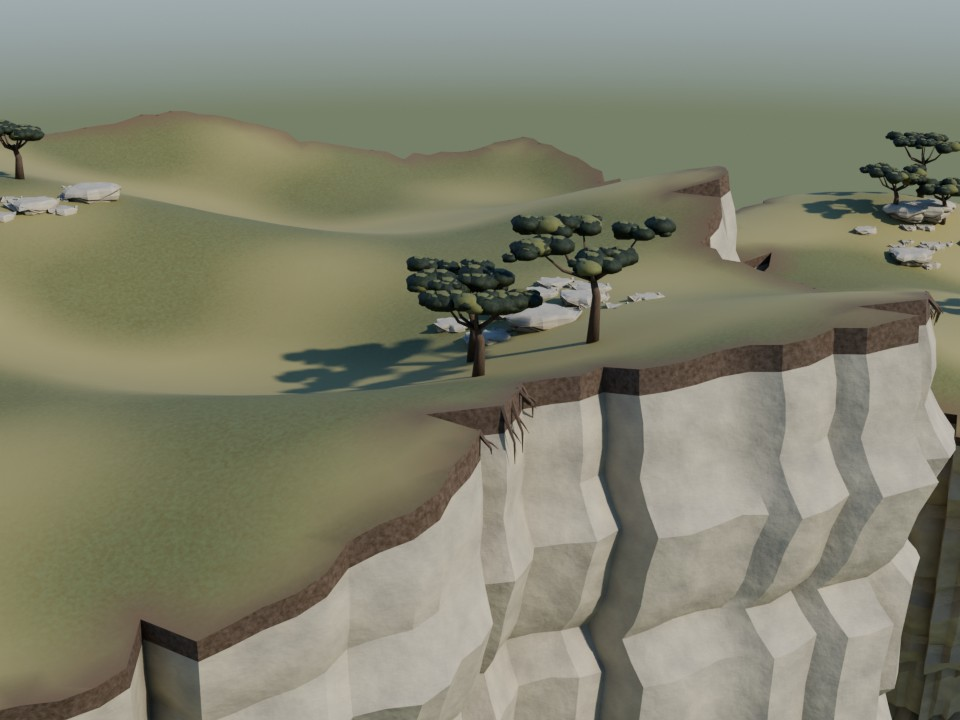
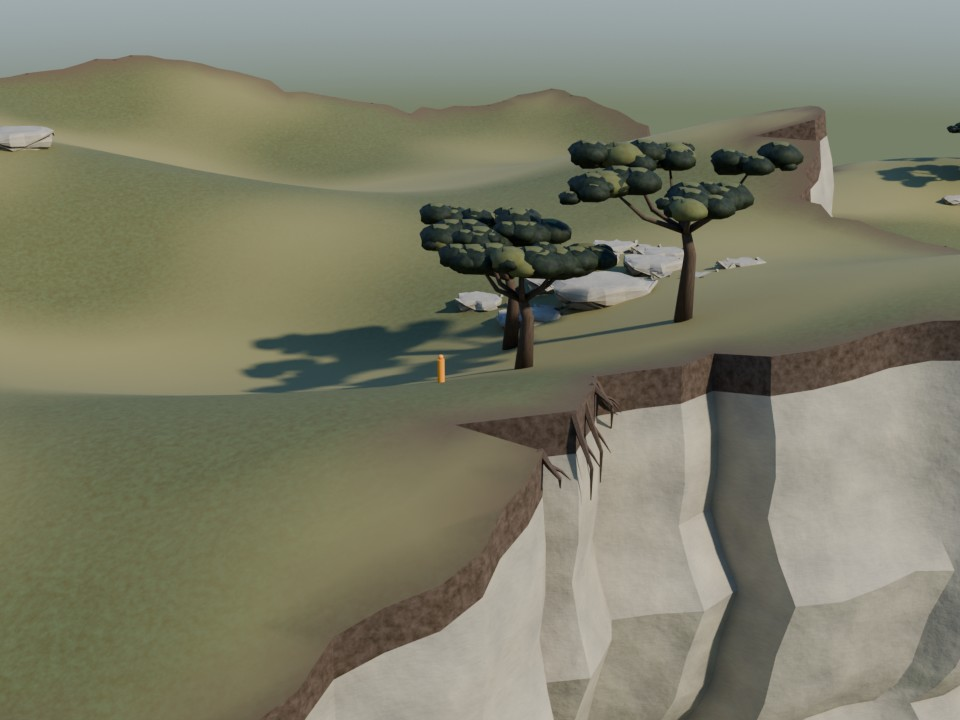
Show the scale figure on the floating island review sheet

diff --git a/tools/blender/render_sheet.py b/tools/blender/render_sheet.py
@@ -38,6 +38,7 @@ centre = (lo + hi) / 2
 radius = max(size) / 2 * 1.3
 stats = {"triangles": vrlib.triangle_count(objs), "size_m": [round(v, 3) for v in size], "objects": len(objs)}
 context = [ob for ob in scene.objects if ob.get("vr_review_context")]
+figure_location = scene.get("vr_review_figure")
 
 
 def studio():
@@ -84,17 +85,16 @@ def studio():
     ground.data.materials.append(gmat)
 
     # 1.8 m figure for scale: body, head.
-    figure_xy = (centre.x, hi.y + 0.5)
-    bpy.ops.mesh.primitive_cylinder_add(radius=0.22, depth=1.5, location=(*figure_xy, 0.75))
+    x, y, z = figure_location if figure_location is not None else (centre.x, hi.y + 0.5, 0)
+    bpy.ops.mesh.primitive_cylinder_add(radius=0.22, depth=1.5, location=(x, y, z + 0.75))
     body = bpy.context.object
-    bpy.ops.mesh.primitive_uv_sphere_add(radius=0.15, location=(*figure_xy, 1.65))
+    bpy.ops.mesh.primitive_uv_sphere_add(radius=0.15, location=(x, y, z + 1.65))
     head = bpy.context.object
     fmat = bpy.data.materials.new("vr_figure")
     fmat.use_nodes = True
     fmat.node_tree.nodes["Principled BSDF"].inputs["Base Color"].default_value = (0.9, 0.35, 0.05, 1)
     for o in (body, head):
         o.data.materials.append(fmat)
-        o.hide_render = ground.hide_render
     return [body, head]
 
 
@@ -157,14 +157,14 @@ started = time.time()
 tiles = []
 for name, az, el, target, dist in views:
     for o in figure:
-        o.hide_render = bool(scene.get("vr_review_floating")) or name.startswith("closeup")
+        o.hide_render = name.startswith("closeup") and not (name == "closeup_upper" and figure_location is not None)
     aim(az, el, target, dist)
     scene.render.filepath = os.path.join(tmp_dir, name + ".png")
     bpy.ops.render.render(write_still=True)
     tiles.append(scene.render.filepath)
 
 for o in figure:
-    o.hide_render = bool(scene.get("vr_review_floating"))
+    o.hide_render = False
 for ob in context:
     ob.hide_render = True
 for kind in (() if draft else ("wire", "clay")):

diff --git a/assets/sky/floating_island_a/build.py b/assets/sky/floating_island_a/build.py
@@ -317,6 +317,10 @@ def build():
     for ob in objects:
         ob.location.z+=lift
     scene=bpy.context.scene
+    x,y=-45,-48
+    bpy.context.view_layer.update()
+    hit,point,*_=scene.ray_cast(bpy.context.evaluated_depsgraph_get(),Vector((x,y,170)),Vector((0,0,-1)))
+    scene["vr_review_figure"]=(x,y,point.z if hit else summit(x,y,143)+lift)
     scene["vr_review_floating"]=True
-    scene["vr_closeup_upper"]=(-34,-36,140+lift,247,20,135)
+    scene["vr_closeup_upper"]=(-39,-40,141+lift,247,20,92)
     scene["vr_closeup_base"]=(-3,-19,73+lift,281,5,313)
